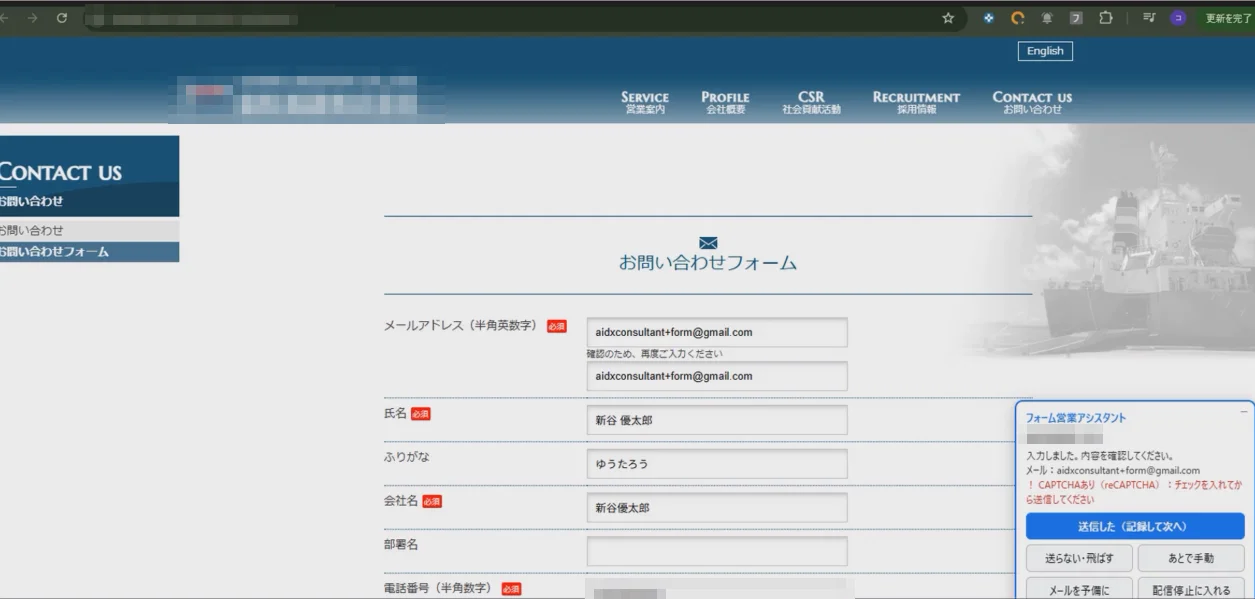
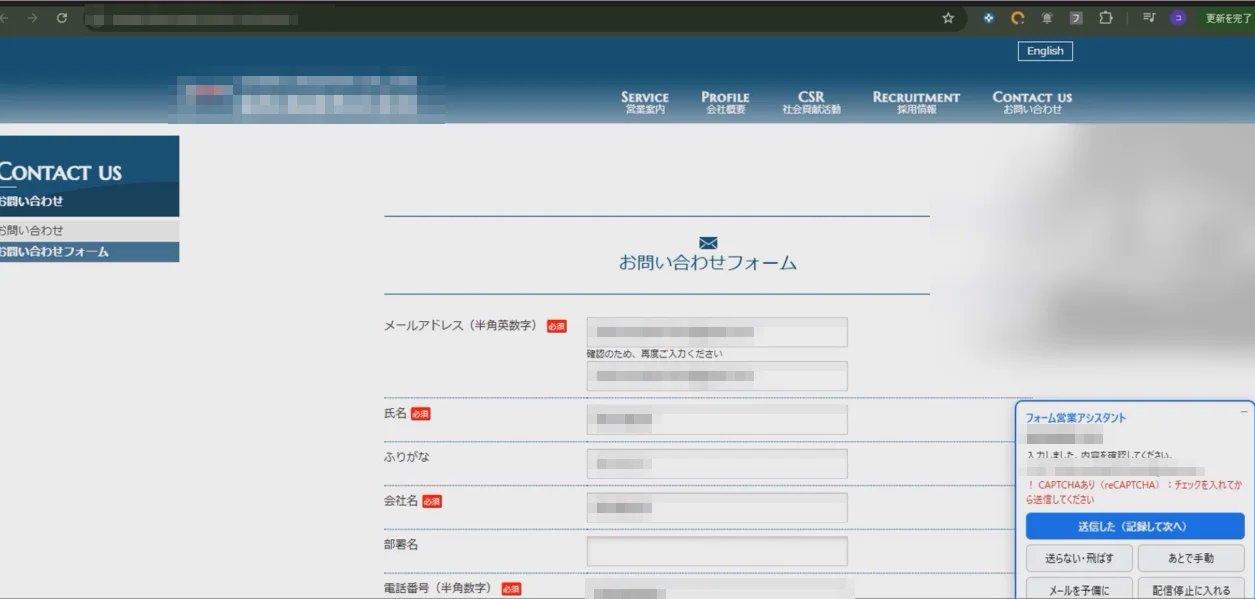
LPの入力画面の画像で、名前・メールなどもぼかす
Claude-Session: https://claude.ai/code/session_01FLqeoWjy2Dg3himHFhVTDq

diff --git a/index.html b/index.html
@@ -223,7 +223,7 @@ footer a{color:#fff}
     <figure class="shot" style="margin:0">
       <img src="img/form-demo.webp" width="1255" height="599" alt="ササリーチが問い合わせフォームに、名前・メール・会社名などを自動で入力した画面" loading="lazy">
     </figure>
-    <p class="note" style="margin:10px 0 0">実際の送信テストの画面です（送り先の会社名はぼかしています）。右下のパネルで、送る・飛ばすなどを選べます。</p>
+    <p class="note" style="margin:10px 0 0">実際の送信テストの画面です（会社名・名前などはぼかしています）。右下のパネルで、送る・飛ばすなどを選べます。</p>
   </div>
 </section>
 
